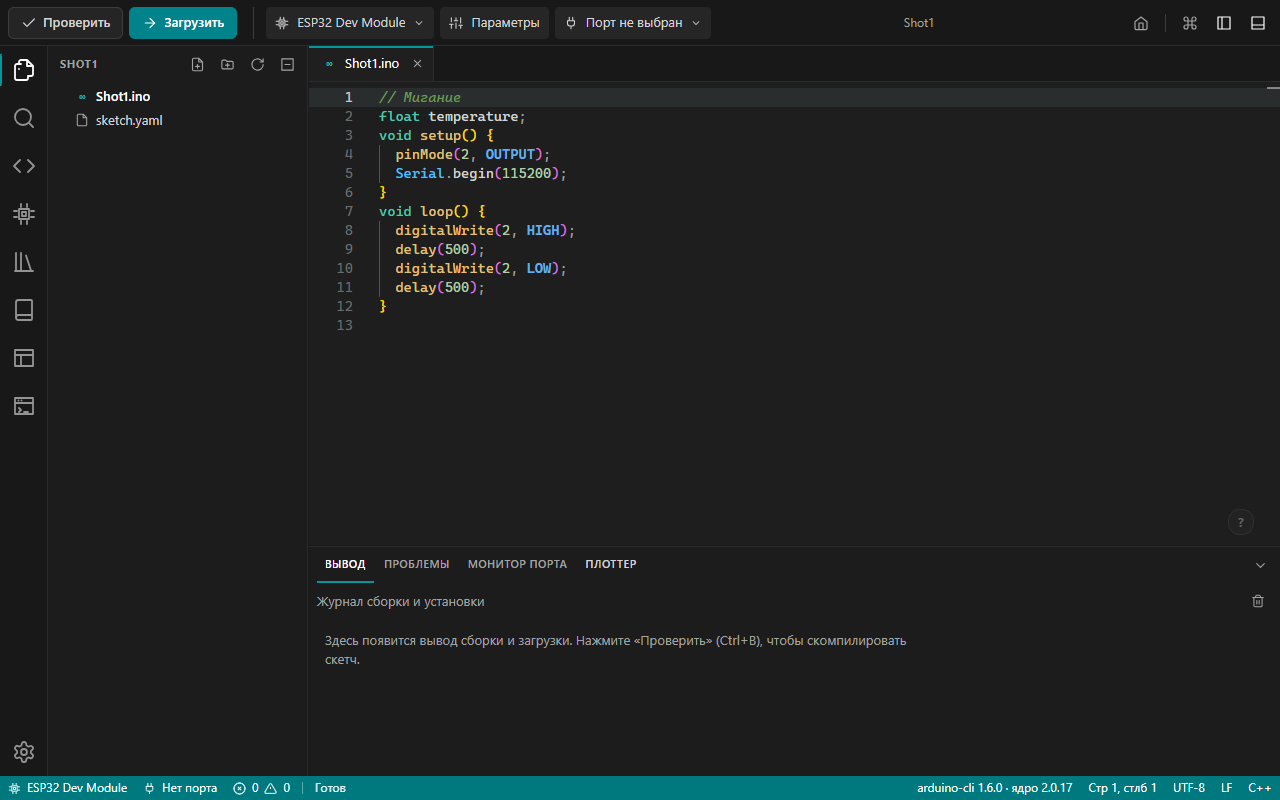
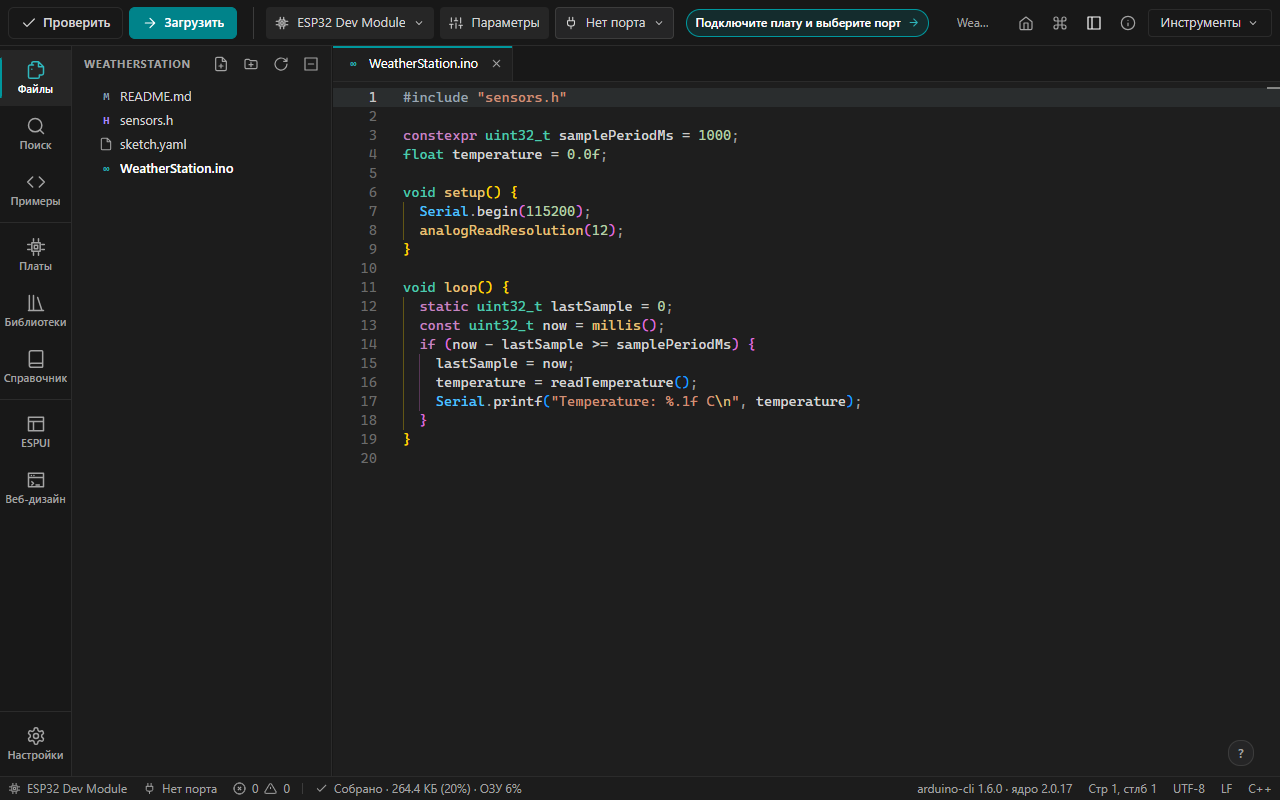
Refresh README screenshots from current IDE

diff --git a/README.md b/README.md
@@ -4,7 +4,7 @@
 
 *English: a desktop IDE for Arduino, ESP8266/ESP32, STM32 and RP2040 boards with a smart code editor, a function and board reference, and two visual web-UI builders (ESPUI and HTML+CSS+WebSocket). The interface is in Russian. Windows x64 builds only for now.*
 
-![Редактор](docs/img/editor.png)
+![Редактор AVR IDE: скетч ESP32, дерево файлов и результат сборки](docs/img/editor.png)
 
 ## Возможности
 
@@ -19,11 +19,21 @@
 - **Проекты STM32 C/C++.** Создаются через «Создать проект → STM32 C/C++». Открытие папки с `avride.project.json` выбирает рабочую область STM32. Проект без Arduino API по образцу Keil и STM32CubeIDE: файл `avride.project.json`, CMSIS, startup, скрипт компоновщика, конфигурации Debug и Release, программатор ST-Link. Готовы мастер проекта, панель проекта и **сборка** (`arm-none-eabi-gcc`: компилятор ставится одной кнопкой с проверкой SHA-256, файлы CMSIS скачиваются из репозиториев ST по подтверждению и проверяются по git-SHA-1, вкладка «Размер» с полосками Flash и RAM, конфигурации Debug и Release, экспорт Makefile и CMakeLists.txt). Прошивка и отладка через ST-Link, J-Link и CMSIS-DAP (OpenOCD и GDB, SWD): мастер «Прошивка» и вкладка «Отладка», точки останова, шаги, регистры, периферия по SVD; вкладка «SWO» принимает `printf` через ITM (шаблон проекта «printf через SWO»). **Конфигуратор «Пины и тактирование»** (аналог STM32CubeMX, но легче): схема корпуса по базе чипов, выводы и периферия, проверка конфликтов, блок-схема тактирования с проверкой пределов, генерация `gpio`, `clock`, `uart`, `board` на регистрах CMSIS или HAL с блоками `USER CODE` (F1, F4, G4; остальное честно «вручную»). **Умный редактор C/C++** (индекс символов проекта и заголовков CMSIS без внешних зависимостей): подсказки после `GPIOA->` и `RCC->` по полям структур регистров, макросы битов (`RCC_APB2ENR_IOPCEN`, `GPIO_ODR_ODR13`), hover с адресом и смещением регистра, значение макроса, F12 и Ctrl+клик по определению (в том числе в заголовок CMSIS), Shift+F12 ссылки, Ctrl+T поиск символа, F2 переименование с предпросмотром, форматирование через `clang-format` (если установлен), подсветка ассемблера, скриптов компоновки и карты, проверка `avride.project.json`. Пока проверено на имитаторах, первая проверка на плате — по [docs/pro-hardware-test.md](docs/pro-hardware-test.md). Подробности: [docs/pro-mode.md](docs/pro-mode.md).
 - Тёмная и светлая темы, палитра команд, горячие клавиши.
 
-| Конструктор ESPUI | Веб-дизайнер |
-|---|---|
-| ![ESPUI](docs/img/espui.png) | ![Веб-дизайнер](docs/img/webdesigner.png) |
+## Интерфейс
 
-![Платы и распиновка](docs/img/boards.png)
+### Конструктор ESPUI
+
+![Проект «Метеостанция» в ESPUI: структура страницы, холст и свойства элемента](docs/img/espui.png)
+
+### Веб-дизайнер
+
+![Шаблон «Умный дом» в веб-дизайнере: структура сайта, предпросмотр и свойства блока](docs/img/webdesigner.png)
+
+### Справочник плат
+
+![Распиновка ESP32 DevKit в светлой теме с выбранным выводом GPIO21](docs/img/boards.png)
+
+[Посмотреть скриншот справочника функций](docs/img/reference.png)
 
 ## Как связать веб-интерфейс со скетчем
 
